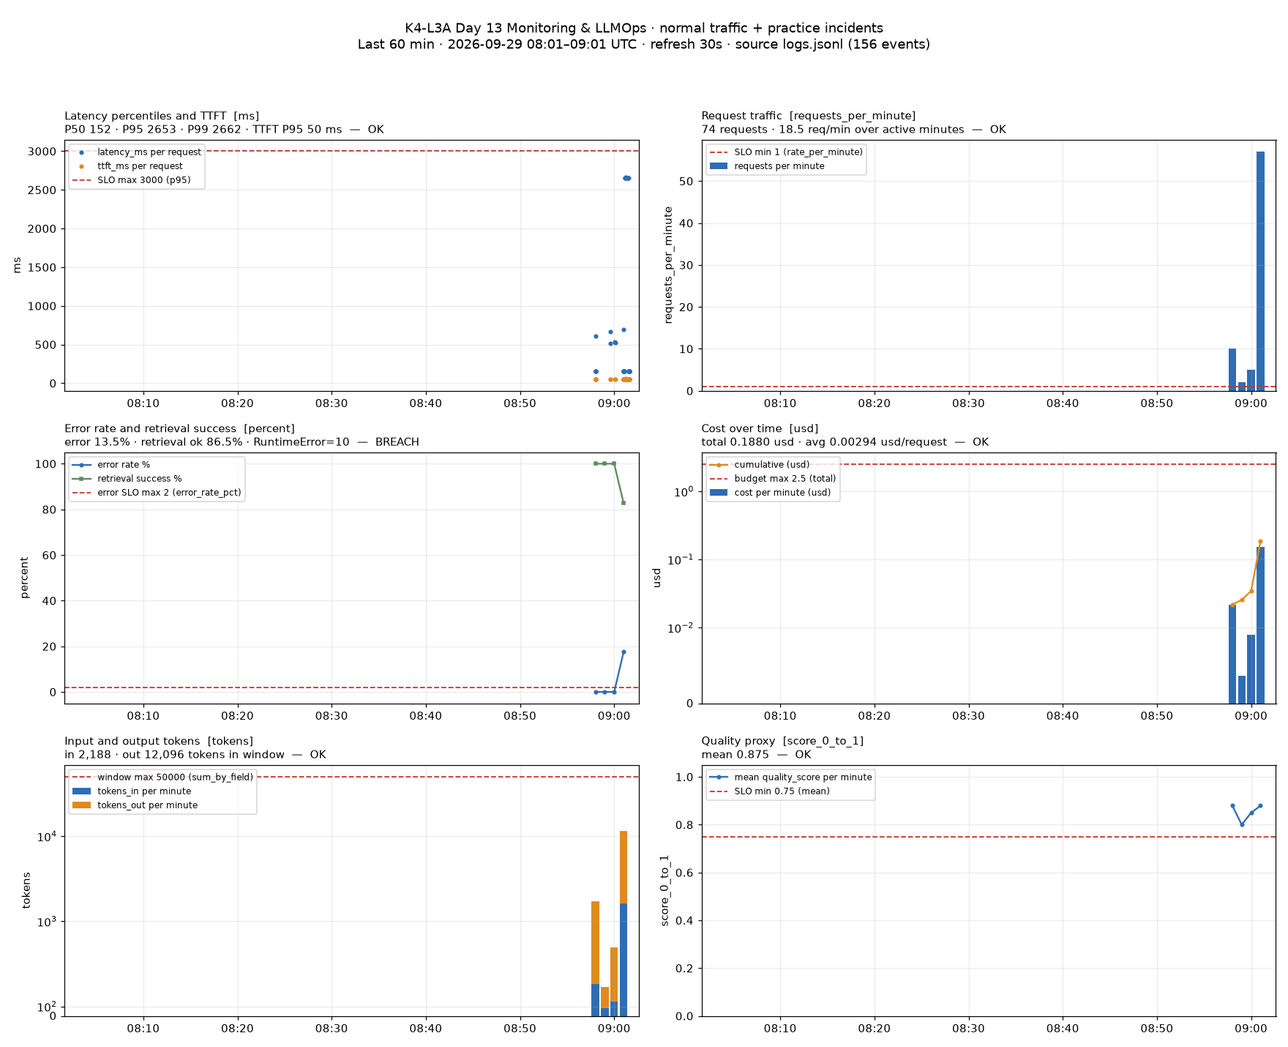
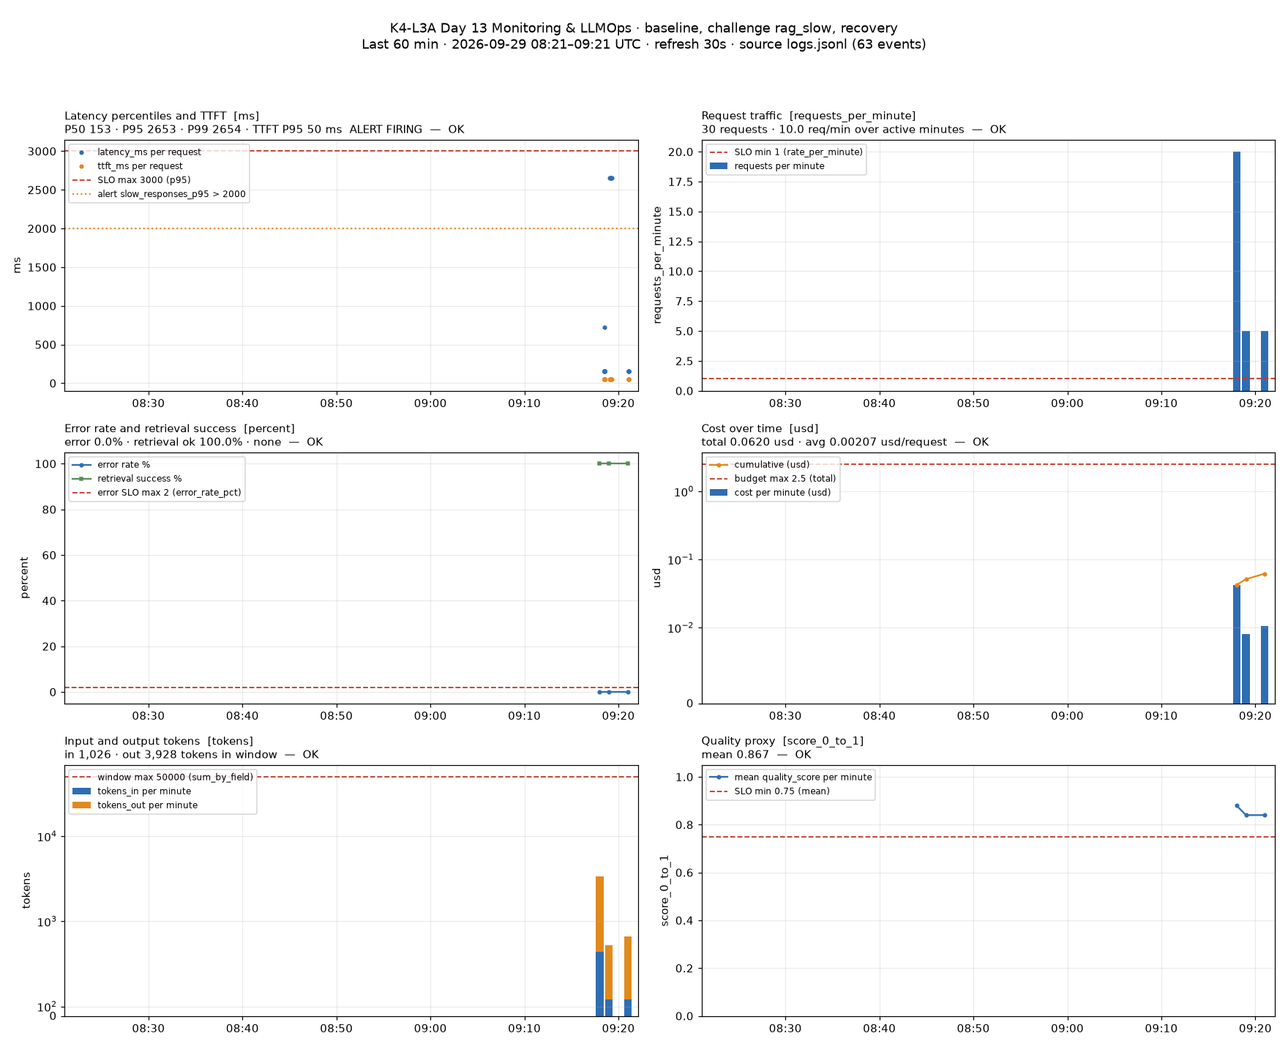
docs: challenge investigation, report and evidence
- CP3 day13-k4-l3a-monitoring-llmops-v1: metric, log and trace evidence,
  recovery run with the same challenge queries
- dashboard: alert line on the latency panel, zoom window for incidents
- 500 responses return the correlation_id
- report filled; README lists the added scripts

diff --git a/scripts/build_dashboard.py b/scripts/build_dashboard.py
@@ -73,6 +73,11 @@ def status_of(value: float, panel: dict) -> str:
     return "OK" if ok else "BREACH"
 
 
+# Early-warning line of alert slow_responses_p95 in config/alert_rules.yaml; it sits below
+# the SLO line so the chart shows when the alert fires before the SLO is breached.
+LATENCY_ALERT_MS = 2000
+
+
 def panel_latency(ax, panel, responses):
     times = [e["_ts"] for e in responses]
     latencies = [e["latency_ms"] for e in responses]
@@ -80,9 +85,11 @@ def panel_latency(ax, panel, responses):
     ax.plot(times, latencies, "o", ms=3, color=SERIES_COLORS[0], label="latency_ms per request")
     ax.plot(times, ttfts, "o", ms=3, color=SERIES_COLORS[1], label="ttft_ms per request")
     draw_threshold(ax, panel)
+    ax.axhline(LATENCY_ALERT_MS, color="#e08a1e", linestyle=":", linewidth=1.4, label=f"alert slow_responses_p95 > {LATENCY_ALERT_MS}")
     p50, p95, p99 = (percentile(latencies, p) for p in (50, 95, 99))
     ttft_p95 = percentile(ttfts, 95)
-    return f"P50 {p50:.0f} · P95 {p95:.0f} · P99 {p99:.0f} · TTFT P95 {ttft_p95:.0f} ms", p95
+    alert = "  ALERT FIRING" if p95 > LATENCY_ALERT_MS else ""
+    return f"P50 {p50:.0f} · P95 {p95:.0f} · P99 {p99:.0f} · TTFT P95 {ttft_p95:.0f} ms{alert}", p95
 
 
 def panel_traffic(ax, panel, received):

diff --git a/submission/REPORT.md b/submission/REPORT.md
@@ -1,102 +1,110 @@
 # Báo cáo cá nhân — K4-L3A Day 13 Monitoring & LLMOps
 
-> Mỗi học viên hoàn thiện một file duy nhất này. Khi dẫn evidence, dùng đường dẫn tương đối, ví dụ `evidence/07-trace-waterfall.png`.
+> Evidence dẫn bằng đường dẫn tương đối trong `submission/evidence/`. Thời gian ghi theo UTC (ICT = UTC+7).
 
 ## 1. Thông tin học viên
 
-- **Họ và tên:**
-- **MSSV:**
+- **Họ và tên:** Hoàng Quốc Việt
+- **MSSV:** 2A202602563
 - **Lớp:** K4-L3A
-- **Repository URL:**
-- **Commit SHA cuối:**
-- **Challenge ID:**
-- **Tên project Langfuse cá nhân:** `day13-k4-l3a-<MSSV>`
+- **Repository URL:** https://github.com/Catnip-harvest/K4-L3-DAY13-HoangQuocViet-2A202602563-Monitoring-LLMOps
+- **Commit SHA cuối:** ghi trên LMS khi nộp (commit cuối của nhánh `main`)
+- **Challenge ID:** `day13-k4-l3a-monitoring-llmops-v1`
+- **Tên project Langfuse cá nhân:** `day13-k4-l3a-2A202602563` (Langfuse Cloud, region JP)
 
 ## 2. Evidence index
 
-Điền đúng đường dẫn tới evidence thực tế. Có thể đổi tên hoặc dùng nhiều ảnh nếu cần.
-
 | Evidence | Đường dẫn |
 |---|---|
-| Pytest cuối | `evidence/01-pytest.png` |
-| Log validator | `evidence/02-log-validator.png` |
-| Dashboard validator | `evidence/03-dashboard-validator.png` |
-| Structured log | `evidence/04-structured-log.png` |
-| PII redaction | `evidence/05-pii-redaction.png` |
-| Trace list | `evidence/06-trace-list.png` |
-| Trace waterfall | `evidence/07-trace-waterfall.png` |
-| Trace metadata | `evidence/08-trace-metadata.png` |
-| Prompt versions | `evidence/09-prompt-versions.png` |
-| Prompt rollback | `evidence/10-prompt-rollback.png` |
-| Dashboard runtime | `evidence/11-dashboard-overview.png` |
-| Incident metric | `evidence/12-incident-metric.png` |
-| Incident log | `evidence/13-incident-log.png` |
-| Incident trace | `evidence/14-incident-trace.png` |
+| Baseline (trước khi sửa) | `evidence/baseline/` |
+| Pytest cuối | [`evidence/01-pytest.txt`](evidence/01-pytest.txt) |
+| Log validator | [`evidence/02-log-validator.txt`](evidence/02-log-validator.txt) |
+| Dashboard validator | [`evidence/03-dashboard-validator.txt`](evidence/03-dashboard-validator.txt) |
+| Structured log | [`evidence/04-structured-log.txt`](evidence/04-structured-log.txt) |
+| PII redaction | [`evidence/05-pii-redaction.txt`](evidence/05-pii-redaction.txt) |
+| Trace list | [`evidence/06-trace-list.png`](evidence/06-trace-list.png), export đầy đủ [`evidence/06-trace-list.txt`](evidence/06-trace-list.txt) |
+| Trace waterfall | [`evidence/07-trace-waterfall.png`](evidence/07-trace-waterfall.png), span tree [`evidence/07-trace-waterfall.txt`](evidence/07-trace-waterfall.txt) |
+| Trace metadata | [`evidence/08-trace-metadata.png`](evidence/08-trace-metadata.png) |
+| Prompt versions | [`evidence/09-prompt-versions.png`](evidence/09-prompt-versions.png) |
+| Prompt promote / rollback | [`evidence/10a-prompt-promote-v2.png`](evidence/10a-prompt-promote-v2.png), [`evidence/10b-prompt-rollback-v1.png`](evidence/10b-prompt-rollback-v1.png), log SDK [`evidence/prompt-runs.txt`](evidence/prompt-runs.txt) |
+| Dashboard runtime | [`evidence/11-dashboard-overview.png`](evidence/11-dashboard-overview.png) |
+| Incident metric | [`evidence/12-incident-metric.png`](evidence/12-incident-metric.png), [`evidence/12-incident-metric.txt`](evidence/12-incident-metric.txt), lệnh chạy [`evidence/12-incident-run.txt`](evidence/12-incident-run.txt) |
+| Incident log | [`evidence/13-incident-log.txt`](evidence/13-incident-log.txt) |
+| Incident trace | [`evidence/14-incident-trace.txt`](evidence/14-incident-trace.txt) |
+
+Các file `.txt` là output thật của lệnh trong repo (`scripts/export_traces.py` đọc trực tiếp từ Langfuse API của project cá nhân); public key mà Langfuse SDK tự chép vào metadata đã được lọc bỏ trước khi ghi.
 
 ## 3. Kết quả kỹ thuật
 
 | Nội dung | Baseline | Kết quả cuối | Nhận xét |
 |---|---|---|---|
-| `validate_logs.py` | | | |
-| `validate_dashboard.py` | | | |
-| `pytest` | | | |
-| Số traces hợp lệ | | | |
-| Số PII leak | | | |
-| Latency P95 / TTFT P95 | | | |
-| Retrieval success rate | | | |
+| `validate_logs.py` | 30/100 | 100/100 | Baseline thiếu `correlation_id` (`MISSING`) và thiếu enrichment trên 20/21 dòng |
+| `validate_dashboard.py` | 6/6 | 6/6 | Contract YAML đã đúng từ đầu; dashboard runtime là phần mới |
+| `pytest` | 22 passed | 32 passed | Thêm test cho CCCD, thẻ, hộ chiếu, header, rò context, thứ tự processor, generation |
+| Số traces hợp lệ | 0 (tracing tắt) | 99 traces trong project cá nhân (89 OK, 10 ERROR từ practice `tool_fail`) | Mỗi trace có root + retrieval + prompt-resolve + generation |
+| Số PII leak | 0 | 0 | Baseline đã là 0 vì `summarize_text` scrub preview; phần mới là scrub **mọi** field (kể cả traceback, header) trước khi ghi |
+| Latency P95 / TTFT P95 | 157 ms / 50 ms (không tracing) | 153 ms / 50 ms khi bình thường; 2653 ms / 50 ms trong challenge | Request đầu sau khi khởi động chậm hơn (~570 ms) do tải prompt từ Langfuse |
+| Retrieval success rate | 100% | 100% bình thường; 86.5% khi practice `tool_fail` | |
 
 ## 4. Logging và PII
 
-- **Cách tạo/nhận và truyền correlation ID:**
-- **Các metadata được ghi vào structured log:**
-- **Cách bảo đảm PII được scrub trước khi ghi:**
-- **Cách kiểm chứng kết quả:**
+- **Cách tạo/nhận và truyền correlation ID:** `app/middleware.py` gọi `clear_contextvars()` đầu mỗi request để không rò context của request trước. Nếu client gửi `x-request-id` và giá trị chỉ gồm `[A-Za-z0-9._-]`, tối đa 64 ký tự, thì dùng lại; nếu không thì sinh `req-<8 hex>`. Kiểm tra định dạng để client không chèn xuống dòng/JSON/PII vào mọi log line. ID được bind vào structlog contextvars, lưu ở `request.state`, và trả về qua `x-request-id` cùng `x-response-time-ms`. Khi request lỗi 500, body cũng trả `correlation_id` để người dùng báo lỗi có thể tra được đúng log line.
+- **Các metadata được ghi vào structured log:** `ts`, `level`, `service`, `event`, `correlation_id`, `env`, `user_id_hash` (SHA-256 cắt 12 ký tự, không lưu user ID thật), `session_id`, `feature`, `model`; `response_sent` thêm `latency_ms`, `ttft_ms`, `tokens_in/out`, `cost_usd`, `quality_score`, `tool_name`, `tool_success`; mọi log sau khi agent bắt đầu có thêm `trace_id` của Langfuse.
+- **Cách bảo đảm PII được scrub trước khi ghi:** processor `scrub_event` đứng sau `format_exc_info` (để traceback đã thành chuỗi và cũng được scrub) và trước `JsonlFileProcessor`/`JSONRenderer`, nên cả file lẫn console đều không nhận dữ liệu thô. Scrubber đi đệ quy qua mọi field, không chỉ `payload`. Pattern: email, thẻ thanh toán (16 số có/không dấu cách, Amex 15 số), CCCD 12 số, điện thoại VN (`0`/`+84` + 9 số, có dấu cách/chấm/gạch), hộ chiếu VN (`[A-Z]` + 7 số). Thẻ và CCCD chạy trước điện thoại để không bị pattern điện thoại cắt mất một đoạn số.
+- **Cách kiểm chứng kết quả:** `tests/test_pii.py` và `tests/test_logging_middleware.py` (gửi request thật qua ASGI có số điện thoại và thẻ, kiểm tra file log); validator 100/100 với detector độc lập của đề; `evidence/05-pii-redaction.txt` cho thấy ba query mẫu chứa email, điện thoại, thẻ đã thành `[REDACTED_*]`, và tìm chuỗi PII thô trên toàn file log trả về 0.
 
 ## 5. Tracing và prompt versioning
 
-- **Cách xác nhận traces do chính tôi tạo trong project cá nhân:**
-- **Cấu trúc root/retrieval/generation observations:**
-- **Cách nối trace với log:**
-- **Prompt name:**
-- **Version/label baseline:**
-- **Version/label candidate:**
-- **Trace ID của mỗi version:**
-- **Cách promote và rollback `production`:**
+- **Cách xác nhận traces do chính tôi tạo trong project cá nhân:** mọi observation export được đều có `projectId = cmume7bpc01s5ad0d73l2qle1`, tức project `day13-k4-l3a-2A202602563` do tôi tạo; mỗi `trace_id` trong `06-trace-list.txt` khớp một dòng `response_sent`/`request_failed` trong `data/logs.jsonl`.
+- **Cấu trúc root/retrieval/generation observations:** root `lab-agent-run` (agent) → `retrieval` (retriever, metadata `doc_count`, query đã scrub) → `prompt-resolve` (span) → `llm-generation` (generation: model, prompt link `day13-chat vN`, `usage_details` input/output, `cost_details` input/output/total, `completion_start_time` nên Langfuse hiển thị TTFT). Chỉ gửi preview đã scrub của prompt và câu trả lời, không gửi prompt thô. Span `prompt-resolve` được thêm sau khi thấy waterfall có khoảng trống ~400 ms không giải thích được (xem mục 8).
+- **Cách nối trace với log:** hai chiều. Log → trace: `trace_id` nằm ngay trong log line. Trace → log: `correlation_id` nằm trong metadata của trace và mọi observation con.
+- **Prompt name:** `day13-chat`
+- **Version/label baseline:** v1, labels `baseline` + `production` (template gốc của đề)
+- **Version/label candidate:** v2, label `candidate` (thêm một dòng: trả lời tối đa 3 câu, chỉ dùng Docs)
+- **Trace ID của mỗi version** (cùng input "Explain why metrics traces and logs work together"):
+  - label `baseline` → v1: `a764ff178b2e7cf70fa2eb29eaf9e6f6` (`req-7b57dfed`), 32 input tokens
+  - label `candidate` → v2: `b69c01508b837132c2263acec7b3456c` (`req-d8bd9de6`), 48 input tokens — prompt dài hơn thể hiện ngay ở token
+  - `production` sau khi promote → v2: `e55b9698027411cd300341c49c23d8c6` (`req-064fa015`)
+  - `production` sau khi rollback → v1: `dd0d6234e301a13fbecccfbca0b48e00` (`req-c7ca0cd5`)
+- **Cách promote và rollback `production`:** `python scripts/manage_prompts.py promote --version 2` rồi `--version 1`. Một label chỉ nằm trên một version, nên gắn `production` cho version khác đồng thời gỡ nó khỏi version cũ; promote và rollback là cùng một thao tác, không cần deploy lại code. App cache prompt 60 giây, nên thay đổi có hiệu lực trong tối đa 60 giây. Trạng thái label trước/sau có timestamp trong `evidence/prompt-runs.txt`; ảnh UI ở `10a`/`10b`.
 
 ## 6. Dashboard, SLO và alerts
 
-- **Dashboard và sáu panel:**
-- **SLO và lý do chọn:**
-- **Cách tính error budget:**
-- **Ba alert và runbook tương ứng:**
+- **Dashboard và sáu panel:** `python scripts/build_dashboard.py` đọc `data/logs.jsonl` và vẽ đúng 6 panel theo `config/dashboard.yaml` (đọc tên panel, đơn vị, threshold và time range 60 phút từ chính file contract, không chép lại số): latency P50/P95/P99 + TTFT P95 (ms), traffic (request/phút), error rate + breakdown + retrieval success (%), cost theo phút + tích lũy (usd), tokens in/out (tokens), quality proxy (0–1). Mỗi panel có đường threshold/SLO màu đỏ; panel latency có thêm đường alert 2000 ms. Tiêu đề panel ghi giá trị hiện tại và OK/BREACH. Tham số `--minutes` chỉ dùng để phóng to ảnh incident.
+- **SLO và lý do chọn:** `fast_successful_requests` — 99.5% request trong 28 ngày phải thành công **và** trả lời trong ≤ 3000 ms. Giữ 3000 ms bằng đúng đường latency của dashboard để biểu đồ và SLO không bao giờ lệch nhau. Baseline P95 là 157 ms trên fake LLM, nên 3000 ms rộng khoảng 19 lần một cách có chủ đích: nó mô tả lúc người dùng chat thấy "quá chậm", không phải tốc độ của model giả; model thật thường có P95 1–3 giây, siết theo baseline sẽ page vì dao động bình thường. Cảnh báo sớm là việc của alert 2000 ms.
+- **Cách tính error budget:** budget = (1 − 0.995) × tổng request trong 28 ngày. Ví dụ 10.000 request → được phép 50 request xấu; 1 request/phút → 40.320 request → 201 request xấu. Burn rate = tỷ lệ request xấu trong cửa sổ / 0.005; burn rate ≥ 14.4 trong 1 giờ nghĩa là tiêu 2% budget 28 ngày chỉ trong 1 giờ và cần page ngay.
+- **Ba alert và runbook tương ứng** (`config/alert_rules.yaml`, [`docs/alerts.md`](../docs/alerts.md), Slack `#day13-l3a-oncall`, owner: tôi):
+  1. `slow_responses_p95` — P2 — P95 latency > 2000 ms trong 5 phút (thấp hơn đường SLO để cảnh báo trước khi đốt budget).
+  2. `high_error_rate` — P1 — error rate > 2% (tối thiểu 5 request) hoặc retrieval success < 90% trong 5 phút.
+  3. `cost_per_request_spike` — P2 — chi phí trung bình > 0.004 USD/request (2× baseline 0.00195) hoặc > 0.104 USD/giờ (2.5 USD/ngày ÷ 24) trong 15 phút.
 
 ## 7. Điều tra challenge
 
-- **Challenge ID:**
-- **Khoảng thời gian điều tra:**
-- **Triệu chứng từ metrics:**
-- **Log line và correlation ID liên quan:**
-- **Trace ID và span gây ảnh hưởng:**
-- **Root cause:**
-- **Fix action:**
-- **Preventive measure:**
+- **Challenge ID:** `day13-k4-l3a-monitoring-llmops-v1` (cohort K4, file do Lab Coach gửi, đặt tại `config/challenge.json`, đã `.gitignore`, không commit).
+- **Khoảng thời gian điều tra:** 2026-09-29 09:19:02–09:19:16 UTC (16:19 ICT). Traffic bình thường chạy lúc 09:18 để làm mốc; kiểm tra phục hồi lúc 09:21.
+- **Triệu chứng từ metrics:** panel Latency: P95 tăng từ 153 ms (09:18) lên **2653 ms** (09:19), 5/5 request `feature=monitoring` vượt ngưỡng 2000 ms của challenge, alert `slow_responses_p95` bắn. Các panel khác không đổi: TTFT P95 giữ 50 ms, error 0%, retrieval success 100%, token và cost bình thường. TTFT không đổi nghĩa là phần chậm nằm **trước** khi model sinh token đầu tiên. Ở phía client, request chờ 10.6–13.3 giây (`12-incident-run.txt`), lâu hơn nhiều so với 2.65 giây mà server ghi nhận.
+- **Log line và correlation ID liên quan:** lọc `response_sent` trong phút 09:19 có `latency_ms > 2000` được 5 request; chọn `req-64e0fe07`: `latency_ms=2653`, `ttft_ms=50`, `tool_success=true`, `tokens 36/113`, `trace_id=ea0bf2807430d4ed9aa1316a2289698c` (`13-incident-log.txt`). Log cũng cho thấy 5 request kết thúc cách nhau đúng ~2.66 giây, dù load test gửi đồng thời 5.
+- **Trace ID và span gây ảnh hưởng:** `ea0bf2807430d4ed9aa1316a2289698c`: root 2654 ms, trong đó **`retrieval` 2500 ms (94%)**, `prompt-resolve` 0 ms, `llm-generation` 152 ms (bằng mức bình thường), prompt vẫn `day13-chat` v1. Các trace bình thường lúc 09:18 có retrieval 0–2 ms (`14-incident-trace.txt`).
+- **Root cause:** bước retrieval (vector store) chậm thêm ~2.5 giây mỗi lần gọi, ảnh hưởng feature `monitoring`; LLM, prompt version và chi phí không liên quan. Ba lớp bằng chứng cùng chỉ một chỗ: metric (P95 tăng, TTFT không đổi) → log (request chậm nhưng thành công, token bình thường) → trace (retrieval chiếm 94% thời gian). Có một yếu tố khuếch đại: `agent.run` là hàm đồng bộ gọi trong `async def chat`, nên event loop xử lý từng request một; 5 request đồng thời phải xếp hàng, người dùng chờ tới 13.3 giây (≈ 5 × 2.65 giây) trong khi `latency_ms` và `x-response-time-ms` chỉ đo 2.65 giây. File challenge có ghi tên incident; kết luận trên được rút ra từ evidence và khớp với nó.
+- **Fix action:** khôi phục retrieval (`python scripts/inject_incident.py --disable`). Chạy lại đúng 5 query của challenge lúc 09:21: P95 về **153 ms**. Với hệ thống thật: đặt timeout cho retrieval (vd 800 ms) và trả lời fallback không có context khi quá hạn, thay vì để cả request chờ.
+- **Preventive measure:** (1) giữ alert `slow_responses_p95` 2000 ms, đã bắn trong sự cố này trước khi chạm đường SLO; (2) thêm alert theo span: P95 của `retrieval` > 500 ms, để page đúng đội sở hữu vector store; (3) chạy agent trong threadpool (`run_in_threadpool`) hoặc chuyển retrieval sang async, để một dependency chậm không chặn các request khác; (4) đo latency ở đầu vào (client/load balancer), vì số đo trong app đã giấu mất ~10 giây xếp hàng.
 
 ## 8. Giải thích và tự đánh giá
 
-- **Một quyết định kỹ thuật quan trọng và lý do:**
-- **Một lỗi/blocker đã gặp:**
-- **Cách tìm nguyên nhân và xử lý:**
-- **Cách hiểu luồng Metrics → Logs → Traces:**
-- **Vai trò của prompt version, token/cost, SLO hoặc rollback trong vận hành LLM:**
-- **Điều quan trọng nhất đã học:**
-- **Hạn chế hoặc phần chưa hoàn thành, nếu có:**
+- **Một quyết định kỹ thuật quan trọng và lý do:** ghi `trace_id` vào log context ngay khi agent bắt đầu. Nhờ vậy mọi log line sau đó, kể cả `request_failed`, trỏ thẳng tới trace; khi điều tra không phải lọc trace theo metadata mà mở đúng trace từ log line. Quyết định thứ hai: scrub mọi field thay vì chỉ `payload`, vì PII có thể đi vào qua traceback, thông điệp lỗi hoặc header.
+- **Một lỗi/blocker đã gặp:** (1) waterfall đầu tiên có tổng 520–670 ms nhưng retrieval + LLM chỉ ~153 ms; (2) `GET /api/public/traces` của Langfuse trả 410 `LEGACY_API_UNAVAILABLE_FOR_NEW_ORGANIZATION`; (3) key đúng nhưng trả 401 với `cloud.langfuse.com`.
+- **Cách tìm nguyên nhân và xử lý:** (1) khoảng trống chỉ xuất hiện ở request đầu sau khi khởi động hoặc khi cache prompt 60 giây hết hạn → đó là lần gọi mạng lấy prompt từ Langfuse chưa có span; thêm span `prompt-resolve` để waterfall giải thích được toàn bộ thời gian. (2) đọc thông báo lỗi, chuyển `scripts/export_traces.py` sang `GET /api/public/v2/observations`. (3) tài khoản nằm ở region JP; đặt `LANGFUSE_BASE_URL=https://jp.cloud.langfuse.com`.
+- **Cách hiểu luồng Metrics → Logs → Traces:** metrics trả lời "có vấn đề gì, từ lúc nào" nhưng là số tổng hợp; logs trả lời "request nào bị" và cho `correlation_id`/`trace_id`; trace của đúng request đó trả lời "bước nào gây ra". Trong challenge: metric cho biết chậm trước token đầu tiên, log cho biết request vẫn thành công với token bình thường, trace chỉ ra retrieval. Thiếu một lớp thì chỉ đoán được: metric một mình không phân biệt được retrieval chậm hay LLM chậm.
+- **Vai trò của prompt version, token/cost, SLO hoặc rollback trong vận hành LLM:** prompt là "code" thay đổi mà không cần deploy; nếu trace không ghi version thì không biết một thay đổi chất lượng hay chi phí đến từ đâu. Ở đây v2 làm input tokens tăng từ 32 lên 48 — nhìn thấy ngay trên trace. Rollback bằng label là thao tác một dòng, có hiệu lực trong 60 giây, nhanh hơn revert code. SLO + error budget biến "hệ thống có ổn không" thành một con số, quyết định khi nào page và khi nào được phép thử nghiệm.
+- **Điều quan trọng nhất đã học:** HTTP 200 không có nghĩa là ổn — toàn bộ challenge trả 200 mà người dùng chờ tới 13 giây; và số đo bên trong ứng dụng có thể giấu thời gian xếp hàng, nên cần đo cả ở đầu vào.
+- **Hạn chế hoặc phần chưa hoàn thành, nếu có:** không sửa lỗi chặn event loop (chỉ ghi nhận), để hành vi của challenge giữ đúng như đề; quality proxy là heuristic của starter (câu trả lời fake cố định) nên chỉ có ý nghĩa minh họa; alert mới được định nghĩa và kiểm bằng dashboard, chưa nối vào Slack thật.
 
 ## 9. Checklist trước khi nộp
 
-- [ ] Kết quả và evidence thuộc commit SHA cuối.
-- [ ] Tất cả ảnh/output mở được bằng đường dẫn tương đối.
-- [ ] Incident evidence nối đúng metric → log → trace.
-- [ ] Trace/prompt evidence thuộc project Langfuse cá nhân và ảnh không lộ key/secret.
-- [ ] Repository chạy lại được theo README.
-- [ ] Không có secret, API key, PII thô hoặc evidence của người khác/lớp khác.
+- [x] Kết quả và evidence thuộc commit SHA cuối.
+- [x] Tất cả ảnh/output mở được bằng đường dẫn tương đối.
+- [x] Incident evidence nối đúng metric → log → trace.
+- [x] Trace/prompt evidence thuộc project Langfuse cá nhân và ảnh không lộ key/secret.
+- [x] Repository chạy lại được theo README.
+- [x] Không có secret, API key, PII thô hoặc evidence của người khác/lớp khác.
 - [ ] URL repo và commit SHA cuối đã được nộp trên LMS/Codelabs.

diff --git a/README.md b/README.md
@@ -167,6 +167,21 @@ Ví dụ: `K4-L3-DAY13-NguyenVanAn-123456-Monitoring-LLMOps`. Mỗi học viên 
 
 Không push bài làm trực tiếp lên repo đề bài và không dùng chung repo bài nộp với học viên khác.
 
+## Script bổ sung trong bài nộp
+
+Chạy từ thư mục gốc, sau khi API đang chạy và `.env` có key của project cá nhân. Nếu tài khoản Langfuse ở region JP/US, đặt `LANGFUSE_BASE_URL` đúng region (ví dụ `https://jp.cloud.langfuse.com`); sai region trả 401 dù key đúng.
+
+```bash
+python scripts/manage_prompts.py create              # day13-chat v1 (baseline, production) + v2 (candidate)
+python scripts/manage_prompts.py promote --version 2 # chuyển production sang v2; --version 1 để rollback
+python scripts/prompt_label_run.py --label candidate # gửi 1 request qua app với label chỉ định
+python scripts/build_dashboard.py                    # 6 panel từ data/logs.jsonl -> submission/evidence/11-dashboard-overview.png
+python scripts/export_traces.py --minutes 60         # bảng trace từ Langfuse (API v2 observations)
+python scripts/export_traces.py --correlation-id req-1a2b3c4d   # span tree của một request
+```
+
+Mọi log line sau khi agent bắt đầu có `trace_id`, nên có thể đi thẳng từ log sang trace.
+
 ## Tài liệu trong repo
 
 - [SETUP.md](docs/SETUP.md): cài đặt và xử lý lỗi môi trường.
